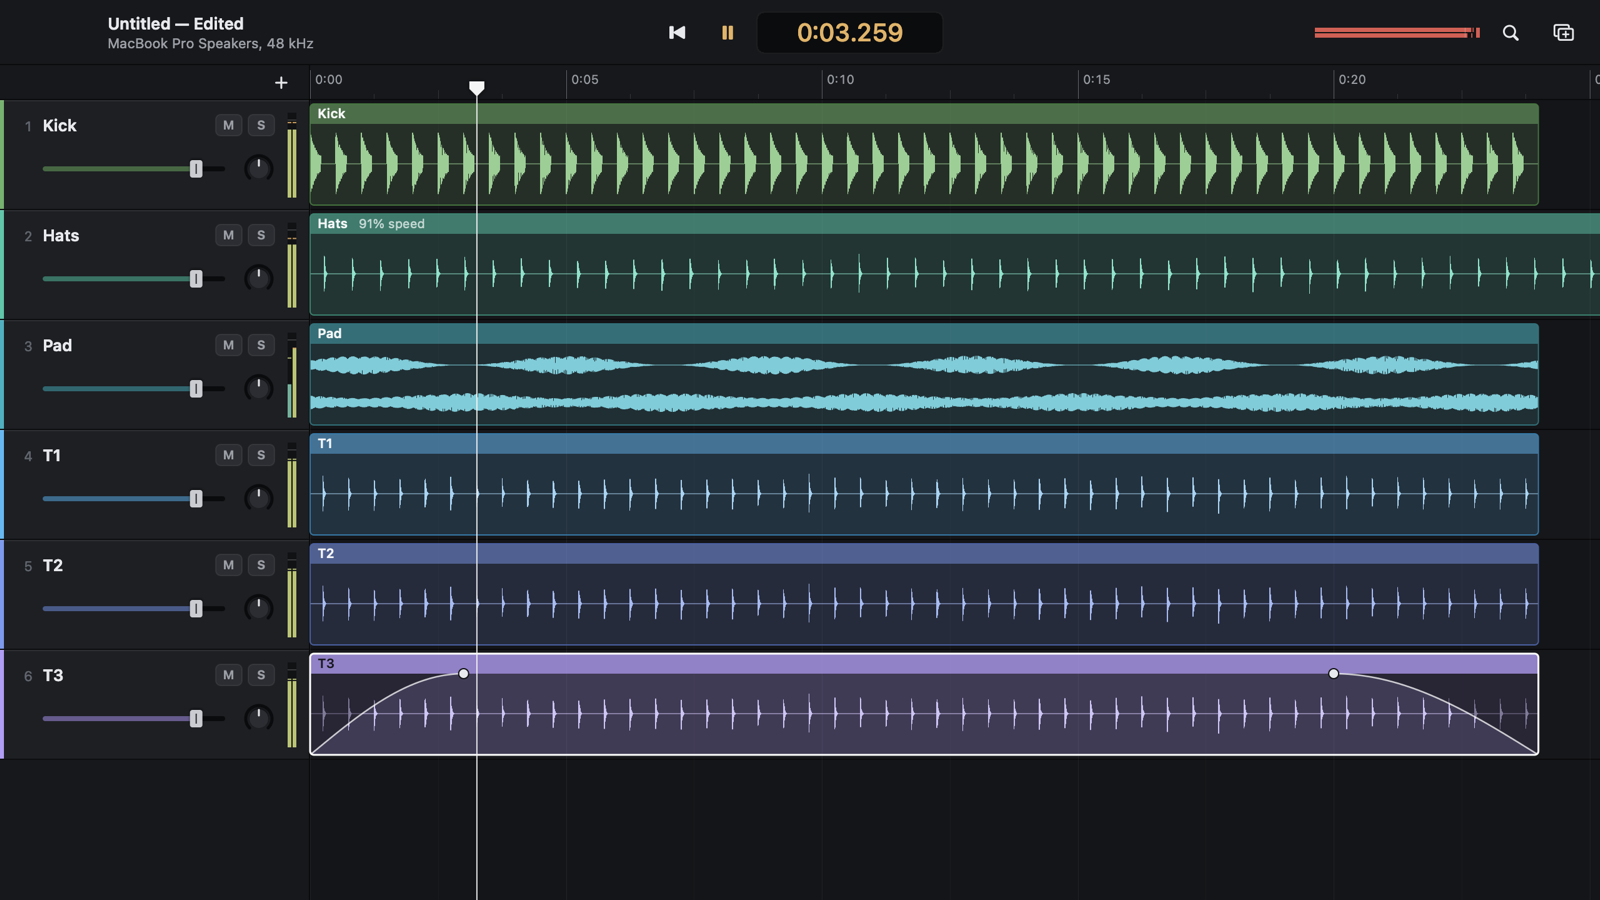
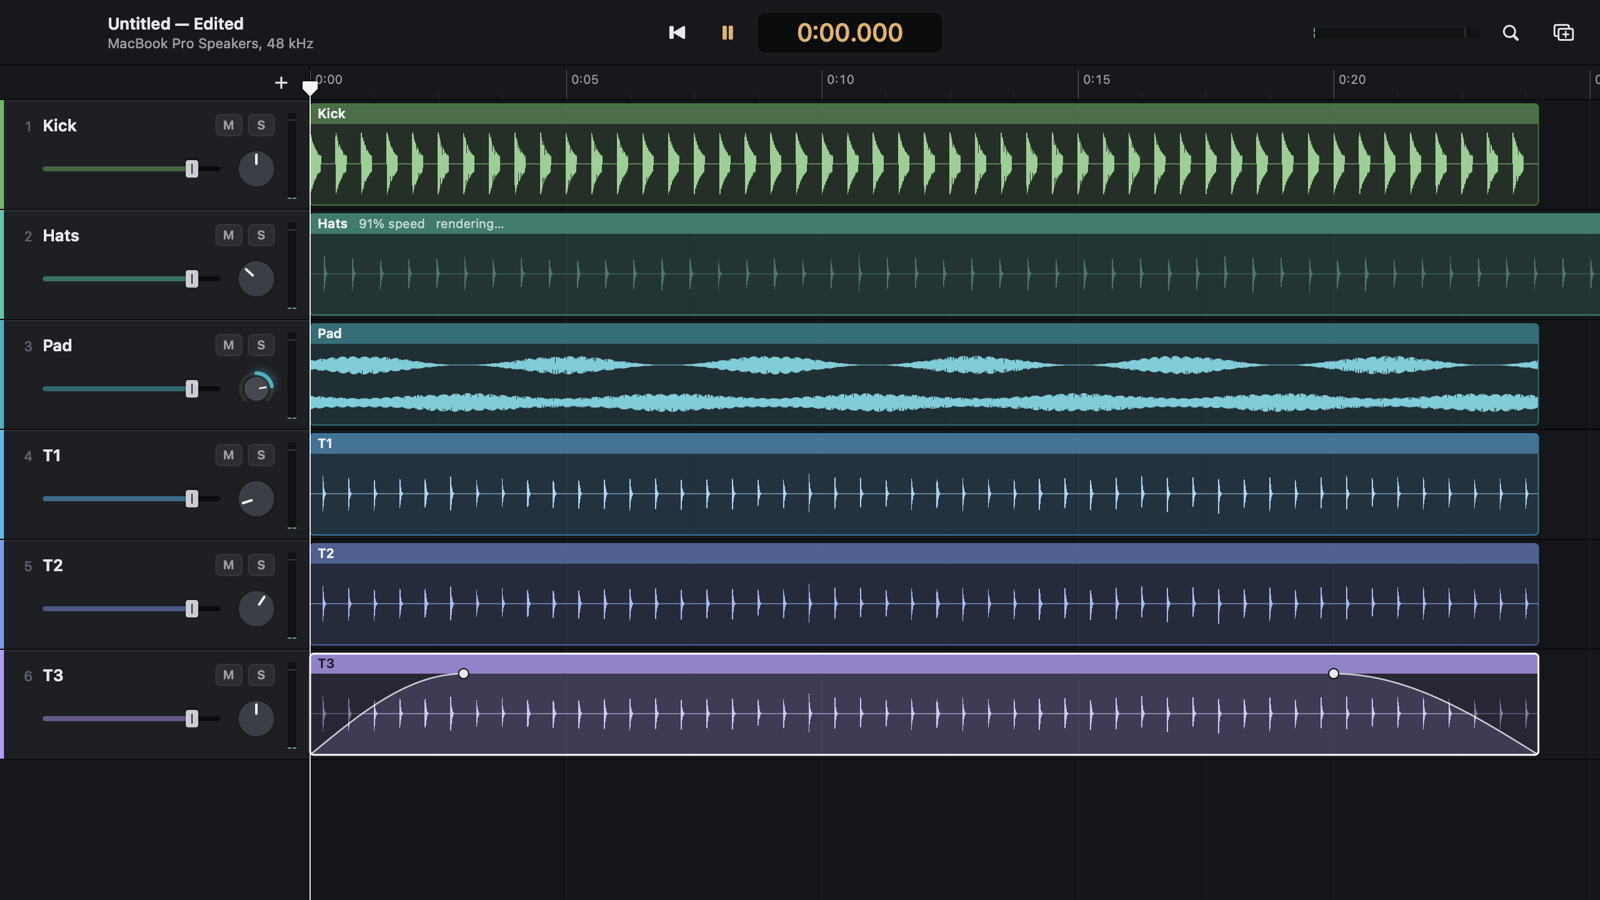
Knobs: flat rotary knob that shrinks on hover to reveal a glowing value ring; HANDOFF.md
Claude-Session: https://claude.ai/code/session_01NnK9o6faPYudu447PKTsnZ

diff --git a/app/macos/Dalnok/Controls.swift b/app/macos/Dalnok/Controls.swift
@@ -174,100 +174,165 @@ final class FaderControl: NSControl {
     override func resignFirstResponder() -> Bool { needsDisplay = true; return true }
 }
 
-// MARK: - Pan knob
+// MARK: - Rotary knob
 
-/// Rotary pan (270° sweep). Vertical drag; ⇧ for fine; ⌥-click or double-click centers.
+/// Flat rotary knob (Valhalla-style minimalism: solid face, bold pointer, no
+/// skeuomorphic gradients). On hover, drag or keyboard focus the face shrinks
+/// to reveal a glowing value ring underneath, like the halo LEDs on a Scarlett
+/// 4th-gen gain knob. Layer-based so the reveal animates smoothly.
+/// Vertical drag; ⇧ for fine; ⌥-click or double-click resets; scroll; arrows.
 @MainActor
-final class PanKnob: NSControl {
-    var pan: Float = 0 { didSet { needsDisplay = true; setAccessibilityValue(Self.format(pan)) } }
-    var tint: NSColor = Theme.text { didSet { needsDisplay = true } }
+class RotaryKnob: NSControl {
+    /// Normalized value: −1…1 when `bipolar`, else 0…1.
+    var value: Double = 0 { didSet { layoutLayers(); setAccessibilityValue(format(value)) } }
+    var bipolar = true
+    var defaultValue: Double = 0
+    var tint: NSColor = Theme.accent { didSet { haloValue.strokeColor = tint.cgColor; haloValue.shadowColor = tint.cgColor } }
+    var format: (Double) -> String = { String(format: "%.0f%%", $0 * 100) }
     var onBegin: (() -> Void)?
-    var onChange: ((Float) -> Void)?
+    var onChange: ((Double) -> Void)?
     var onEnd: (() -> Void)?
     private(set) var tracking = false
-    private var dragStart: (y: CGFloat, pan: Float)?
+    private var hovering = false
+    private var dragStart: (y: CGFloat, value: Double)?
+
+    private let haloTrack = CAShapeLayer()
+    private let haloValue = CAShapeLayer()
+    private let face = CAShapeLayer()
+    private let pointer = CAShapeLayer()
+    static let revealScale: CGFloat = 0.68
 
     override init(frame: NSRect) {
         super.init(frame: frame)
+        wantsLayer = true
+        layer?.masksToBounds = false
+        for l in [haloTrack, haloValue] {
+            l.fillColor = nil
+            l.lineWidth = 3
+            l.lineCap = .round
+            layer?.addSublayer(l)
+        }
+        haloTrack.strokeColor = Theme.hex(0xFFFFFF, 0.08).cgColor
+        haloValue.strokeColor = tint.cgColor
+        haloValue.shadowColor = tint.cgColor
+        haloValue.shadowRadius = 4
+        haloValue.shadowOpacity = 0.9
+        haloValue.shadowOffset = .zero
+        face.fillColor = Theme.hex(0x3A3E46).cgColor
+        face.strokeColor = Theme.hex(0x000000, 0.35).cgColor
+        face.lineWidth = 1
+        pointer.strokeColor = Theme.hex(0xF2F3F5).cgColor
+        pointer.lineWidth = 2
+        pointer.lineCap = .round
+        face.addSublayer(pointer)
+        layer?.addSublayer(face)
         setAccessibilityElement(true)
         setAccessibilityRole(.slider)
-        setAccessibilityValue(Self.format(pan))
+        addTrackingArea(NSTrackingArea(rect: .zero, options: [.mouseEnteredAndExited, .activeInKeyWindow, .inVisibleRect], owner: self))
+        setRevealed(false, animated: false)
     }
     required init?(coder: NSCoder) { fatalError() }
     override var isFlipped: Bool { true }
     override var acceptsFirstResponder: Bool { true }
-    override var intrinsicContentSize: NSSize { NSSize(width: 26, height: 26) }
+    override var intrinsicContentSize: NSSize { NSSize(width: 30, height: 30) }
 
-    static func format(_ p: Float) -> String {
-        let v = Int((abs(p) * 100).rounded())
-        return v == 0 ? "C" : (p < 0 ? "L\(v)" : "R\(v)")
+    // Angles in the flipped view: −90° points up; the sweep is ±135° around it.
+    private func angle(_ v: Double) -> CGFloat {
+        let n = bipolar ? v : v * 2 - 1
+        return (-90 + CGFloat(n) * 135) * .pi / 180
     }
 
-    override func draw(_ dirtyRect: NSRect) {
-        guard let ctx = NSGraphicsContext.current?.cgContext else { return }
-        let r = min(bounds.width, bounds.height) / 2 - 2.5
+    override func layout() {
+        super.layout()
+        layoutLayers()
+    }
+
+    private func layoutLayers() {
+        let r = min(bounds.width, bounds.height) / 2
+        guard r > 4 else { return }
         let c = CGPoint(x: bounds.midX, y: bounds.midY)
-        // Angles (flipped view: y down). 0 at top, ±135°.
-        func angle(_ p: Float) -> CGFloat { (-90 + CGFloat(p) * 135) * .pi / 180 }
-        // Track arc.
-        ctx.setLineWidth(2.5); ctx.setLineCap(.round)
-        ctx.setStrokeColor(Theme.hex(0x0A0B0D).cgColor)
-        ctx.addArc(center: c, radius: r, startAngle: angle(-1), endAngle: angle(1), clockwise: false); ctx.strokePath()
-        // Value arc from center.
-        if abs(pan) > 0.005 {
-            ctx.setStrokeColor(tint.withAlphaComponent(0.85).cgColor)
-            ctx.addArc(center: c, radius: r, startAngle: angle(min(0, pan)), endAngle: angle(max(0, pan)), clockwise: false)
-            ctx.strokePath()
+        CATransaction.begin()
+        CATransaction.setDisableActions(true)
+        let ringR = r - 2.5
+        let track = CGMutablePath()
+        track.addArc(center: c, radius: ringR, startAngle: angle(bipolar ? -1 : 0), endAngle: angle(1), clockwise: false)
+        haloTrack.path = track
+        let from = bipolar ? min(0, value) : 0, to = bipolar ? max(0, value) : value
+        let arc = CGMutablePath()
+        if abs(to - from) > 0.004 {
+            arc.addArc(center: c, radius: ringR, startAngle: angle(from), endAngle: angle(to), clockwise: false)
+        } else {
+            // A lit dot at the center position, so "centered" is visible too.
+            arc.addArc(center: c, radius: ringR, startAngle: angle(from) - 0.04, endAngle: angle(from) + 0.04, clockwise: false)
         }
-        // Body.
-        let body = CGRect(x: c.x - r + 3, y: c.y - r + 3, width: (r - 3) * 2, height: (r - 3) * 2)
-        ctx.setShadow(offset: CGSize(width: 0, height: 1), blur: 2, color: NSColor.black.withAlphaComponent(0.6).cgColor)
-        ctx.setFillColor((tracking ? Theme.controlHi : Theme.control).cgColor)
-        ctx.fillEllipse(in: body)
-        ctx.setShadow(offset: .zero, blur: 0, color: nil)
-        // Pointer.
-        let a = angle(pan)
-        ctx.setStrokeColor(Theme.text.cgColor); ctx.setLineWidth(1.5)
-        ctx.move(to: CGPoint(x: c.x + cos(a) * (r - 8), y: c.y + sin(a) * (r - 8)))
-        ctx.addLine(to: CGPoint(x: c.x + cos(a) * (r - 3.5), y: c.y + sin(a) * (r - 3.5)))
-        ctx.strokePath()
-        if window?.firstResponder === self {
-            ctx.setStrokeColor(NSColor.keyboardFocusIndicatorColor.cgColor); ctx.setLineWidth(1)
-            ctx.strokeEllipse(in: bounds.insetBy(dx: 0.5, dy: 0.5))
-        }
+        haloValue.path = arc
+        // Face covers the ring at rest (scale 1); scales around its center.
+        face.bounds = bounds
+        face.position = c
+        let faceR = r - 0.5
+        face.path = CGPath(ellipseIn: CGRect(x: c.x - faceR, y: c.y - faceR, width: faceR * 2, height: faceR * 2), transform: nil)
+        let a = angle(value)
+        let ptr = CGMutablePath()
+        ptr.move(to: CGPoint(x: c.x + cos(a) * faceR * 0.28, y: c.y + sin(a) * faceR * 0.28))
+        ptr.addLine(to: CGPoint(x: c.x + cos(a) * faceR * 0.78, y: c.y + sin(a) * faceR * 0.78))
+        pointer.path = ptr
+        CATransaction.commit()
     }
 
-    private func set(_ p: Float) {
-        var v = min(1, max(-1, p))
-        if abs(v) < 0.02 { v = 0 } // center detent
-        pan = v
-        onChange?(v)
-        ValueBubble.show(Self.format(v), above: self, at: bounds.midX)
+    private func setRevealed(_ on: Bool, animated: Bool) {
+        CATransaction.begin()
+        CATransaction.setDisableActions(!animated)
+        CATransaction.setAnimationDuration(0.16)
+        CATransaction.setAnimationTimingFunction(CAMediaTimingFunction(name: .easeOut))
+        face.setAffineTransform(on ? CGAffineTransform(scaleX: Self.revealScale, y: Self.revealScale) : .identity)
+        haloValue.opacity = on ? 1 : 0
+        haloTrack.opacity = on ? 1 : 0
+        face.fillColor = (on ? Theme.hex(0x44484F) : Theme.hex(0x3A3E46)).cgColor
+        CATransaction.commit()
+    }
+
+    private func updateReveal() { setRevealed(hovering || tracking || window?.firstResponder === self, animated: true) }
+
+    override func mouseEntered(with event: NSEvent) { hovering = true; updateReveal() }
+    override func mouseExited(with event: NSEvent) { hovering = false; updateReveal() }
+
+    private func set(_ v: Double) {
+        var x = min(1, max(bipolar ? -1 : 0, v))
+        if abs(x - defaultValue) < 0.02 { x = defaultValue } // detent
+        value = x
+        onChange?(x)
+        ValueBubble.show(format(x), above: self, at: bounds.midX)
     }
 
     override func mouseDown(with event: NSEvent) {
         window?.makeFirstResponder(self)
         onBegin?()
         if event.modifierFlags.contains(.option) || event.clickCount == 2 {
-            set(0); onEnd?(); ValueBubble.hide(); return
+            set(defaultValue); onEnd?(); ValueBubble.hide(); return
         }
         tracking = true
-        dragStart = (event.locationInWindow.y, pan)
-        ValueBubble.show(Self.format(pan), above: self, at: bounds.midX)
+        updateReveal()
+        dragStart = (event.locationInWindow.y, value)
+        ValueBubble.show(format(value), above: self, at: bounds.midX)
     }
     override func mouseDragged(with event: NSEvent) {
         guard let s = dragStart else { return }
-        let scale: Float = event.modifierFlags.contains(.shift) ? 0.002 : 0.012
-        set(s.pan + Float(event.locationInWindow.y - s.y) * scale)
+        let range = bipolar ? 2.0 : 1.0
+        let perPoint = (event.modifierFlags.contains(.shift) ? 0.001 : 0.006) * range
+        set(s.value + Double(event.locationInWindow.y - s.y) * perPoint)
     }
     override func mouseUp(with event: NSEvent) {
-        tracking = false; dragStart = nil; needsDisplay = true
-        ValueBubble.hide(); onEnd?()
+        tracking = false
+        dragStart = nil
+        hovering = bounds.contains(convert(event.locationInWindow, from: nil))
+        updateReveal()
+        ValueBubble.hide()
+        onEnd?()
     }
     override func scrollWheel(with event: NSEvent) {
-        let d = Float(event.hasPreciseScrollingDeltas ? event.scrollingDeltaY / 300 : event.scrollingDeltaY / 30)
+        let d = Double(event.hasPreciseScrollingDeltas ? event.scrollingDeltaY / 300 : event.scrollingDeltaY / 30)
         guard d != 0 else { return }
-        onBegin?(); set(pan + d); onEnd?()
+        onBegin?(); set(value + d * (bipolar ? 1 : 0.5)); onEnd?()
         DispatchQueue.main.asyncAfter(deadline: .now() + 0.8) { ValueBubble.hide() }
     }
     override func keyDown(with event: NSEvent) {
@@ -277,11 +342,37 @@ final class PanKnob: NSControl {
         default: super.keyDown(with: event)
         }
     }
-    private func nudge(_ d: Float) { onBegin?(); set(pan + d); onEnd?(); ValueBubble.hide() }
+    private func nudge(_ d: Double) { onBegin?(); set(value + d); onEnd?(); ValueBubble.hide() }
     override func accessibilityPerformIncrement() -> Bool { nudge(0.1); return true }
     override func accessibilityPerformDecrement() -> Bool { nudge(-0.1); return true }
-    override func becomeFirstResponder() -> Bool { needsDisplay = true; return true }
-    override func resignFirstResponder() -> Bool { needsDisplay = true; return true }
+    override func becomeFirstResponder() -> Bool { DispatchQueue.main.async { self.updateReveal() }; return true }
+    override func resignFirstResponder() -> Bool { DispatchQueue.main.async { self.updateReveal() }; return true }
+    /// For screenshots/tests: show the revealed state without a mouse.
+    func previewReveal(_ on: Bool) { hovering = on; updateReveal() }
+}
+
+/// Pan: a bipolar knob reading L/C/R.
+@MainActor
+final class PanKnob: RotaryKnob {
+    var pan: Float {
+        get { Float(value) }
+        set { value = Double(newValue) }
+    }
+    var onPanChange: ((Float) -> Void)?
+
+    override init(frame: NSRect) {
+        super.init(frame: frame)
+        bipolar = true
+        format = PanKnob.format
+        onChange = { [weak self] v in self?.onPanChange?(Float(v)) }
+        setAccessibilityValue(format(value))
+    }
+    required init?(coder: NSCoder) { fatalError() }
+
+    static func format(_ p: Double) -> String {
+        let v = Int((abs(p) * 100).rounded())
+        return v == 0 ? "C" : (p < 0 ? "L\(v)" : "R\(v)")
+    }
 }
 
 // MARK: - Toggle chip (Mute / Solo / later Record)

diff --git a/app/macos/Dalnok/Panels.swift b/app/macos/Dalnok/Panels.swift
@@ -147,7 +147,7 @@ final class TrackHeaderRow: NSView, NSTextFieldDelegate {
         fader.onChange = { [weak self] db in guard let self else { return }; self.session.setGain(self.trackId, db: db) }
         fader.onEnd = { [weak self] in self?.session.engine.endGroup() }
         pan.onBegin = { [weak self] in self?.session.engine.beginGroup("Pan") }
-        pan.onChange = { [weak self] p in guard let self else { return }; self.session.setPan(self.trackId, p) }
+        pan.onPanChange = { [weak self] p in guard let self else { return }; self.session.setPan(self.trackId, p) }
         pan.onEnd = { [weak self] in self?.session.engine.endGroup() }
         meter.vertical = true
         meter.toolTip = "Post-fader level (click to reset the clip indicator)"
@@ -172,9 +172,9 @@ final class TrackHeaderRow: NSView, NSTextFieldDelegate {
             fader.centerYAnchor.constraint(equalTo: pan.centerYAnchor),
             fader.heightAnchor.constraint(equalToConstant: 18),
             pan.trailingAnchor.constraint(equalTo: meter.leadingAnchor, constant: -10),
-            pan.topAnchor.constraint(equalTo: nameLabel.bottomAnchor, constant: 14),
-            pan.widthAnchor.constraint(equalToConstant: 26),
-            pan.heightAnchor.constraint(equalToConstant: 26),
+            pan.topAnchor.constraint(equalTo: nameLabel.bottomAnchor, constant: 12),
+            pan.widthAnchor.constraint(equalToConstant: 30),
+            pan.heightAnchor.constraint(equalToConstant: 30),
             meter.trailingAnchor.constraint(equalTo: trailingAnchor, constant: -10),
             meter.topAnchor.constraint(equalTo: topAnchor, constant: 10),
             meter.bottomAnchor.constraint(equalTo: bottomAnchor, constant: -10),

diff --git a/app/macos/Dalnok/Screenshots.swift b/app/macos/Dalnok/Screenshots.swift
@@ -31,11 +31,24 @@ enum Screenshots {
             if app.session.tracks.count > 1, let hats = app.session.tracks[1].clips.first {
                 app.session.setStretch(hats.id, length: Int64(Double(hats.length) * 1.1), rate: 1 / 1.1, pitch: 0, preservePitch: true)
             }
+            // Knob states: a few pans off-center; one knob shown revealed (hover state).
+            let pans: [Float] = [0, -0.35, 0.6, -0.8, 0.25]
+            for (i, t) in app.session.tracks.enumerated() where i < pans.count { app.session.setPan(t.id, pans[i]) }
+            if app.session.tracks.count > 2 { w.headers.rows[2].pan.previewReveal(true) }
             w.timeline.selectedClip = app.session.tracks.last?.clips.first?.id
             app.engine.seek(Int64(app.engine.sampleRate * 2))
             app.engine.play()
             try? await Task.sleep(for: .seconds(1.2))
             png(w.window!.contentView!, dir.appendingPathComponent("arrangement.png"))
+            if w.headers.rows.count > 2 {
+                let rows = w.headers.rows.prefix(3)
+                let rect = rows.map { $0.convert($0.bounds, to: w.window!.contentView!) }.reduce(CGRect.null) { $0.union($1) }
+                if let v = w.window?.contentView, let rep = v.bitmapImageRepForCachingDisplay(in: rect) {
+                    v.cacheDisplay(in: rect, to: rep)
+                    try? rep.representation(using: .png, properties: [:])?.write(to: dir.appendingPathComponent("knobs.png"))
+                }
+                w.headers.rows[2].pan.previewReveal(false)
+            }
             app.engine.pause()
             w.showCommandPalette(nil)
             w.palette.filter("sp")

diff --git a/HANDOFF.md b/HANDOFF.md
@@ -1,0 +1,54 @@
+# Handoff prompt: continue the Dalnok DAW
+
+You are continuing development of **Dalnok**, an open-source (GPL-3.0-or-later) DAW for macOS.
+Repo: `~/Projects/Code/DAW` (GitHub `droper23/dalnok`, private). The repo is also the owner's Obsidian
+vault. The public parity page is built from `site/` and published to `droper23/dalnok-status` by
+`scripts/publish-site.sh`. The owner is the product owner and doesn't write code. They want
+world-class UI, honest verification, and milestone check-ins.
+
+## Read first (in order)
+1. `AGENTS.md`: rules. The audio thread must stay nonblocking, every edit is an engine command,
+   nothing is reported without evidence, and nothing derived from the owner's projects is ever published.
+2. `CURRENT_STATE.md`: what's verified, known defects, and the next action.
+3. `09 - Decisions/ADR-0001…0007`, `06 - Design/UI Audit 2026-11-16.md`, `06 - Design/Track Colors.md`.
+
+## Current objective (update this section each milestone)
+**Phase 2: recording.** Write ADR-0008 first (input via AUHAL or an aggregate device, a lock-free capture
+ring, a disk-writer thread, crash-safe finalization), then input selection, record-arm, monitoring, and a
+long-duration capture test. Ask the owner to connect the Scarlett.
+
+**Just finished (M8):** knobs are now a layer-based `RotaryKnob` (`Controls.swift`): a flat face and pointer
+at rest. On hover, drag or focus, the face shrinks (0.68×, 160 ms) to reveal a glowing ring in the track
+color. `PanKnob` subclasses it. `site/screenshots/knobs.png` shows the rest and revealed states.
+**Not done:** `site/parity.json`, `CHANGELOG.md` and `CURRENT_STATE.md` don't mention the knob yet. Add
+it, then run `scripts/publish-site.sh`.
+
+## Done so far (all committed, CI green)
+- **Phase 1:** engine, C API, AppKit UI, undo, projects, export, fades, solo, relink, copy-on-save, meters,
+  device switching, ⌘K palette.
+- **Migration (M5):** import REAPER, Ableton, FCPXML, stems, and Logic `.logicx` (experimental). Plus
+  onboarding, shortcut presets, the Concept Guide, and old-DAW vocabulary in ⌘K.
+- **Time stretch (M6):** Signalsmith, rendered in the background (`stretch_cache.*`, `engine/dsp`).
+- **UI pass 1 (M7):**
+  - OKLCH rainbow track colors starting at green (`Theme.swift`)
+  - custom `FaderControl`, `PanKnob`, `ToggleChip`
+  - new headers, clips, control bar, and empty state
+
+## Verify
+- `swift build && swift test`: 64 tests.
+- `scripts/check.sh`: tests, the live audio smoke test, and the app self-test (needs a GUI session).
+- `DALNOK_SANITIZE=1 scripts/check.sh` adds ASan and TSan.
+- `.build/debug/Dalnok <wav files> --selftest <dir>`: end-to-end UI checks, ending in `SELFTEST: PASS`.
+- `.build/debug/Dalnok <wav files> --screenshots site/screenshots`: real-app screenshots (no personal data).
+- `scripts/ci/rt-effects.sh`: real-time effect analysis. CI runs build-test, sanitizers, and rt-effects.
+
+## Open items and known gaps
+- Logic `.logicx` region placement is unverified. Needs a Final Cut Pro XML export from the owner.
+- VoiceOver labels exist but haven't been tested with VoiceOver running.
+- No group tracks yet (Phase 4); group color tinting is specified but unbuilt.
+- No disk streaming: media is fully decoded in RAM.
+
+## Session-end checklist
+Update `CURRENT_STATE.md`, `CHANGELOG.md`, `10 - Development Journal/<date>.md`, `site/parity.json`
+(only mark steps `verified` with evidence), and this file. Commit with the attribution trailer
+(`Co-Authored-By: …`). Run `scripts/publish-site.sh`, then check CI with `gh run watch`.
